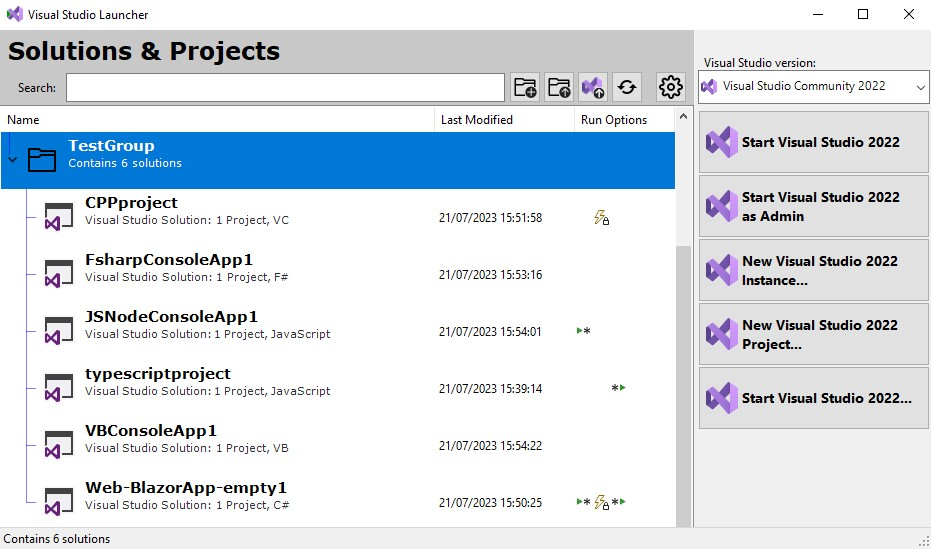
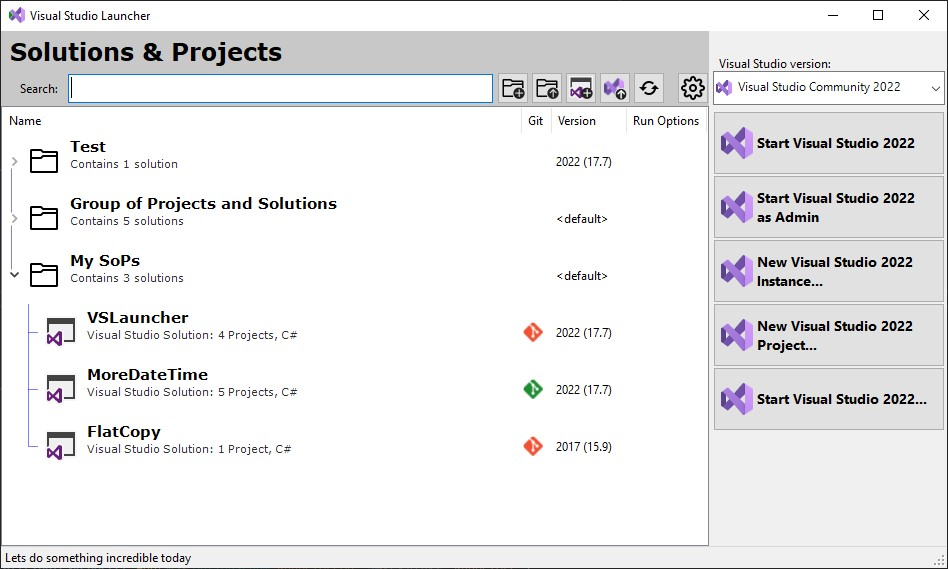
Updated sample images for doc fixed VS version display bug

diff --git a/VSLauncherX/MainDialog.cs b/VSLauncherX/MainDialog.cs
@@ -155,7 +155,7 @@ namespace VSLauncher
 						return "<default>";
 					}
 
-					var vs = visualStudioInstances.GetByVersion(item.VsVersion);
+					var vs = visualStudioInstances.GetByIdentifier(item.VsVersion);
 					string s = $"{vs.Year} ({vs.ShortVersion})";
 					return s;
 				}
